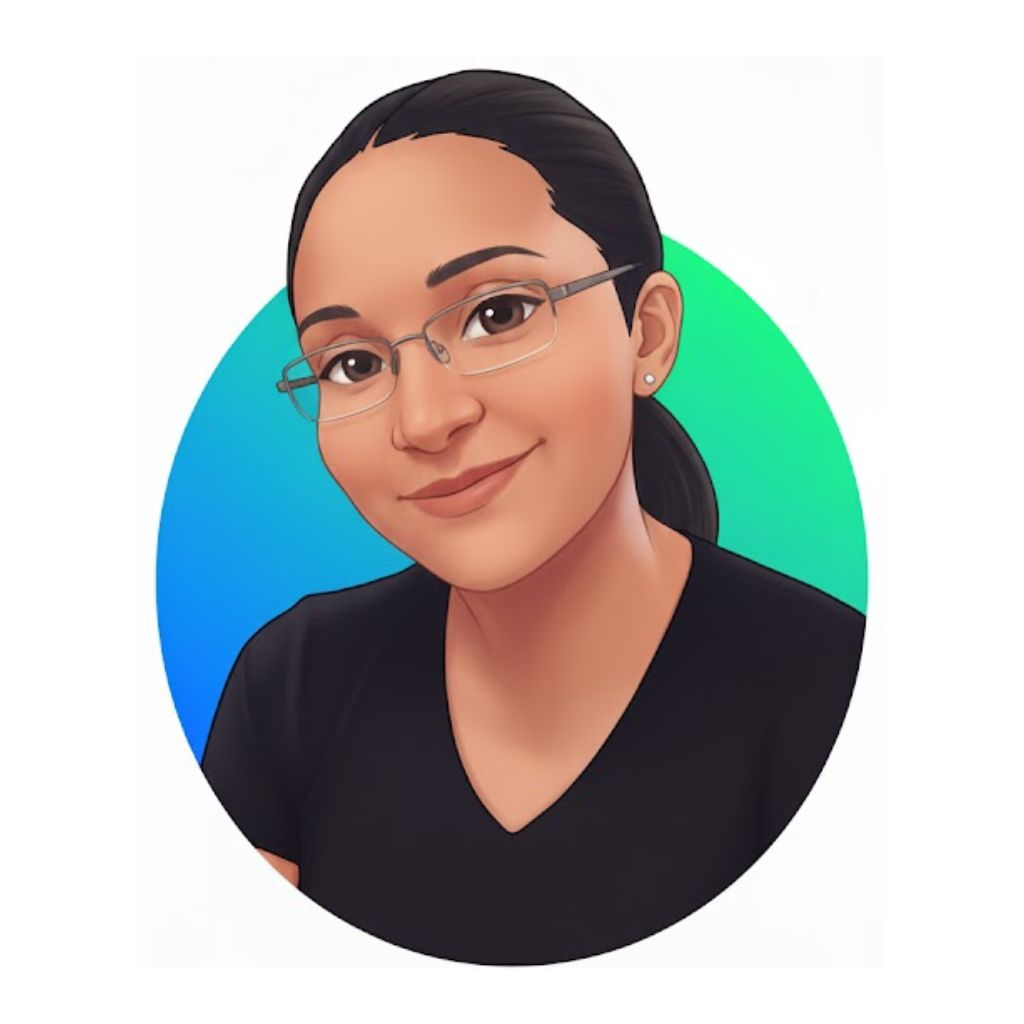
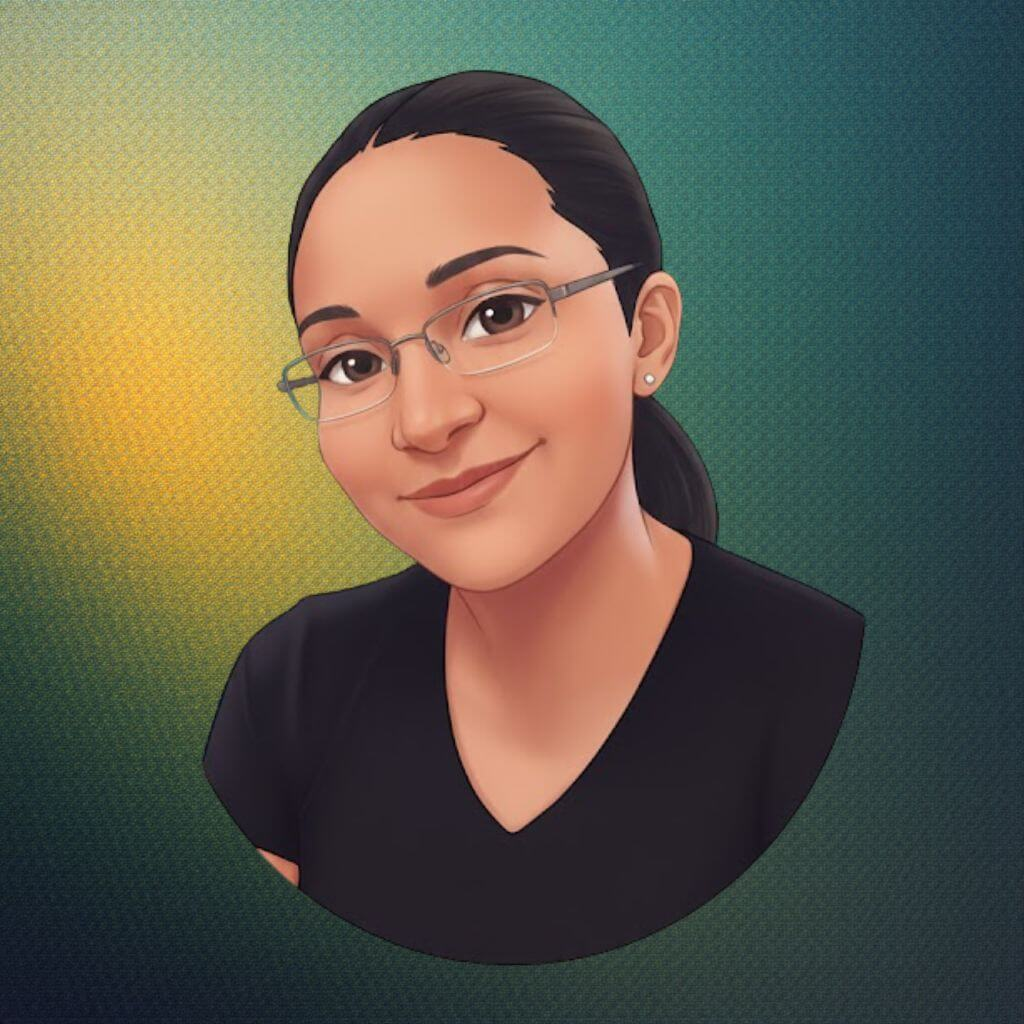
Add files via upload

diff --git a/index.html b/index.html
@@ -86,7 +86,7 @@
                         Master <span class="text-yellow-300">Past & Future Tenses</span> in Brazilian Portuguese
                     </h1>
                     <p class="text-xl mb-8 text-gray-100">
-                        Level up your Portuguese with <strong>105+ advanced exercises</strong> covering past tenses, future tense, and real-world vocabulary in just 9 weeks.
+                        Level up your Portuguese with <strong>105+ exercises</strong> covering past tenses, future tense, and real-world vocabulary in just 9 weeks.
                     </p>
                     <div class="flex flex-col sm:flex-row gap-4 mb-6">
                         <a href="#buy-now" class="cta-button text-white font-bold py-4 px-8 rounded-full text-lg inline-flex items-center justify-center">
@@ -134,34 +134,34 @@
         <div class="max-w-6xl mx-auto">
             <div class="text-center mb-12">
                 <h2 class="text-3xl md:text-4xl font-bold text-gray-800 mb-4">
-                    Stuck in the <span class="gradient-text">Present Tense?</span>
+                    Learning <span class="gradient-text">Pretérito Perfeito vs Pretérito Imperfeito</span>
                 </h2>
                 <p class="text-xl text-gray-600 max-w-3xl mx-auto">
-                    You can talk about now, but what about yesterday, last week, or next month? <strong>Without past and future tenses, your Portuguese is incomplete.</strong>
+                    To tell a story in the past naturally, we know that it takes a lot of practice to understand the use of each of these tenses.
                 </p>
             </div>
             
             <div class="grid md:grid-cols-3 gap-8">
                 <div class="text-center p-6">
-                    <div class="w-16 h-16 bg-red-100 rounded-full flex items-center justify-center mx-auto mb-4">
-                        <i class="fas fa-times text-3xl text-red-500"></i>
+                    <div class="w-16 h-16 bg-teal-100 rounded-full flex items-center justify-center mx-auto mb-4">
+                        <i class="fas fa-book-open text-3xl text-teal-600"></i>
                     </div>
-                    <h3 class="font-bold text-lg mb-2 text-gray-800">Limited Conversations</h3>
-                    <p class="text-gray-600">Can't tell stories, share experiences, or make plans for the future</p>
+                    <h3 class="font-bold text-lg mb-2 text-gray-800">Telling Stories in the Past</h3>
+                    <p class="text-gray-600">Pretérito perfeito vs imperfeito do indicativo - which one to use?</p>
                 </div>
                 <div class="text-center p-6">
-                    <div class="w-16 h-16 bg-red-100 rounded-full flex items-center justify-center mx-auto mb-4">
-                        <i class="fas fa-times text-3xl text-red-500"></i>
+                    <div class="w-16 h-16 bg-green-100 rounded-full flex items-center justify-center mx-auto mb-4">
+                        <i class="fas fa-arrow-up text-3xl text-green-600"></i>
                     </div>
-                    <h3 class="font-bold text-lg mb-2 text-gray-800">Confusing Past Tenses</h3>
-                    <p class="text-gray-600">Pretérito perfeito, imperfeito, mais-que-perfeito - which one to use?</p>
+                    <h3 class="font-bold text-lg mb-2 text-gray-800">Improve Your Fluency</h3>
+                    <p class="text-gray-600">Pretérito mais-que-perfeito e futuro simples - expanding your speaking ability</p>
                 </div>
                 <div class="text-center p-6">
-                    <div class="w-16 h-16 bg-red-100 rounded-full flex items-center justify-center mx-auto mb-4">
-                        <i class="fas fa-times text-3xl text-red-500"></i>
+                    <div class="w-16 h-16 bg-teal-100 rounded-full flex items-center justify-center mx-auto mb-4">
+                        <i class="fas fa-rocket text-3xl text-teal-600"></i>
                     </div>
-                    <h3 class="font-bold text-lg mb-2 text-gray-800">Plateau Effect</h3>
-                    <p class="text-gray-600">Feeling stuck at beginner level without progressing</p>
+                    <h3 class="font-bold text-lg mb-2 text-gray-800">Take Your Portuguese to the Next Level</h3>
+                    <p class="text-gray-600">Preposições, vocabulários - improving your Portuguese!</p>
                 </div>
             </div>
         </div>
@@ -173,10 +173,10 @@
             <div class="grid md:grid-cols-2 gap-12 items-center">
                 <div>
                     <h2 class="text-3xl md:text-4xl font-bold text-gray-800 mb-6">
-                        Break Through to <span class="gradient-text">Intermediate Portuguese</span>
+                        <span class="gradient-text">Improve Your Portuguese</span> to the Next Level
                     </h2>
                     <p class="text-lg text-gray-600 mb-8">
-                        Vamos Praticar Volume 2 takes you beyond basics with <strong>focused practice on past and future tenses</strong>, plus the vocabulary you need for real conversations.
+                        Vamos Praticar Volume 2 helps you expand your vocabulary and practice focused on past and future tenses, plus the vocabulary you need for real conversations.
                     </p>
                     <div class="space-y-4">
                         <div class="flex items-start gap-4">
@@ -230,14 +230,13 @@
         </div>
     </section>
 
-    <!-- What You'll Learn Section -->
+     <!-- What You'll Learn Section -->
     <section class="py-20 px-4 bg-white">
         <div class="max-w-6xl mx-auto">
             <div class="text-center mb-12">
                 <h2 class="text-3xl md:text-4xl font-bold text-gray-800 mb-4">
                     What You'll <span class="gradient-text">Master</span> in Volume 2
                 </h2>
-                <p class="text-xl text-gray-600">Level up from present tense to full conversational fluency</p>
             </div>
             
             <div class="grid md:grid-cols-2 gap-8">
@@ -333,7 +332,7 @@
                     <h3 class="text-2xl font-bold text-gray-800">Master the Most Challenging Topics</h3>
                 </div>
                 <p class="text-gray-700 text-lg">
-                    Finally understand <strong>when to use pretérito perfeito vs. imperfeito</strong> - the challenge that confuses most learners! Through repeated practice, you'll develop an intuitive feel for Portuguese past tenses.
+                    Practice pretérito perfeito vs. imperfeito - through repeated practice, you'll develop an intuitive feel for Portuguese past tenses.
                 </p>
             </div>
         </div>
@@ -360,7 +359,7 @@
                     <ul class="space-y-4">
                         <li class="flex items-start gap-3">
                             <i class="fas fa-user text-green-600 mt-1"></i>
-                            <span class="text-gray-700"><strong>A2 level learners</strong> ready to move beyond basics</span>
+                            <span class="text-gray-700"><strong>A2 level learners</strong> ready to move beyond beginner</span>
                         </li>
                         <li class="flex items-start gap-3">
                             <i class="fas fa-user text-green-600 mt-1"></i>
@@ -444,7 +443,7 @@
                         <span class="text-2xl font-bold text-white">2</span>
                     </div>
                     <h3 class="text-xl font-bold text-gray-800 mb-2">Volume 2</h3>
-                    <p class="text-gray-600 mb-2">A2 Level - Past & future tenses, advanced topics</p>
+                    <p class="text-gray-600 mb-2">A2 Level - Past & future tenses, vocabulary enrichment</p>
                     <div class="inline-block bg-yellow-400 text-yellow-900 px-3 py-1 rounded-full text-sm font-bold">
                         ← You are here
                     </div>
